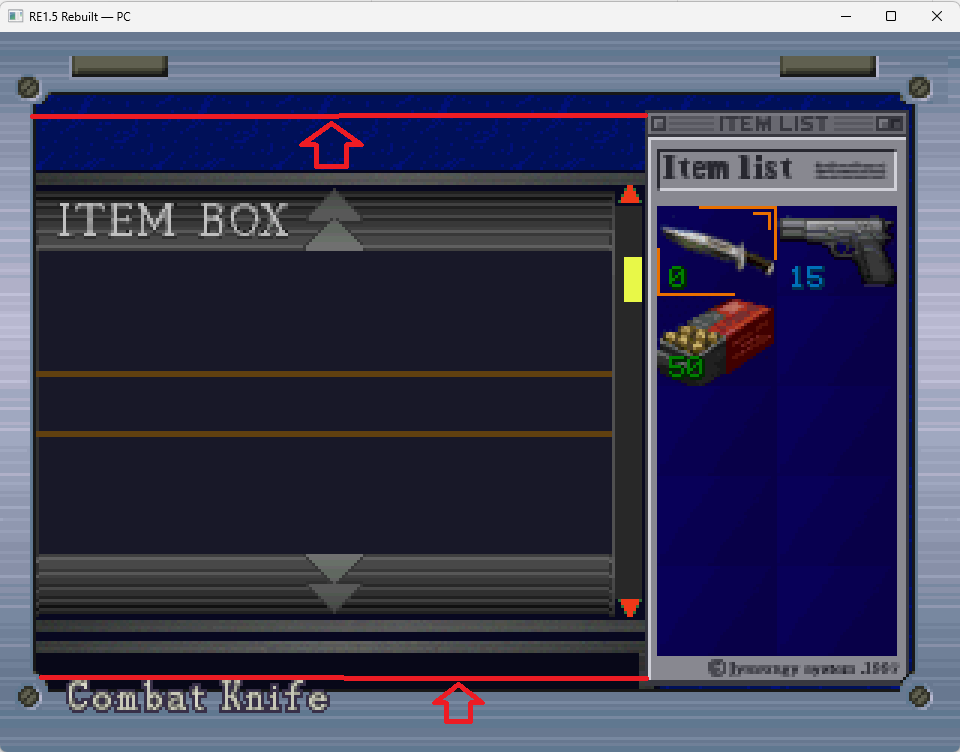
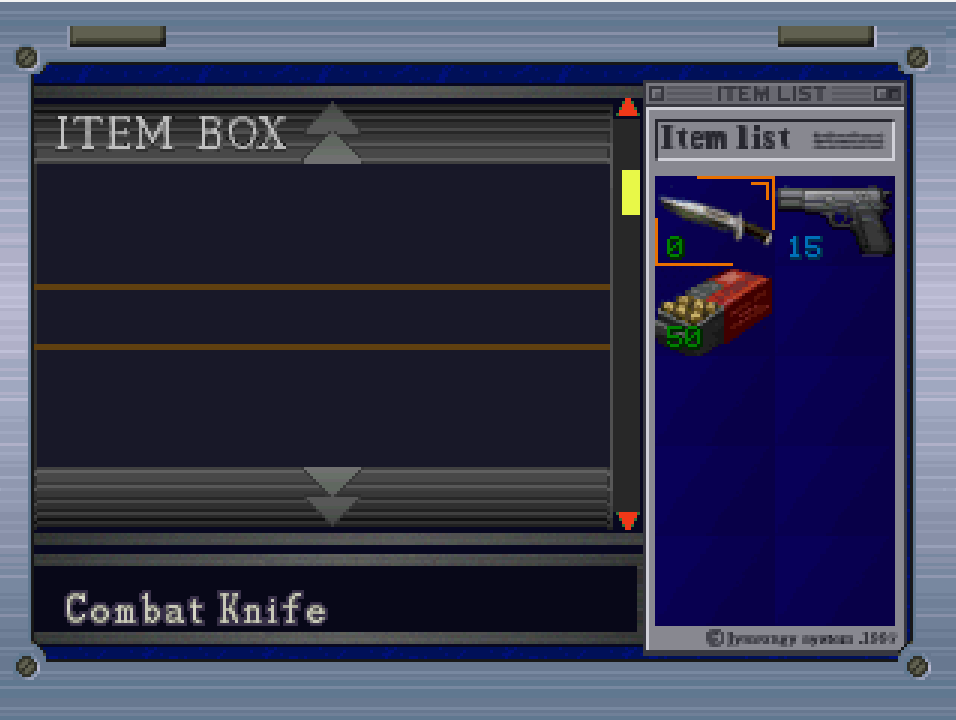
fix(itembox): Box-Seite exakt auf die RAHMENKANTEN des ITEM-LIST-Panels
Nutzer 2026-08-31: "Nur oben fehlt noch ein ganz kleines stueck, ein paar Pixel um auf
gleicher hoehe zu sein wie die item List, und unten fehlen noch ein paar Pixel mehr."

Am neuen Screenshot die RAHMENKANTEN beider Panels ausgemessen (Spalte 700 fuer
ITEM LIST, Spalte 300 fuer unsere Box; Bild 956x720 = 3-fach):
  ITEM LIST : Oberkante Bildzeile 80 -> Spiel-y 26.7 ; Unterkante 654 -> y 218
  unsere Box: Oberkante Bildzeile 83 -> Spiel-y 27.7 ; Unterkante 645 -> y 215
⇒ 1 px zu tief oben, 3 px zu kurz unten. Die roten Markierungen der Vorrunde lagen
etwas INNERHALB der Kanten, daher der Rest-Versatz.

KORRIGIERT: Panel-Oberkante 27 -> 26, Textbox 32 -> 36 px (Innenraum 18 -> 22 Zeilen,
Original-Raender unveraendert). Ergebnis nachgemessen: Panel 26..182, Textbox
182..218, Box-Seite gesamt 26..218 = die Kanten des ITEM-LIST-Panels.

Suite 256/256.

diff --git a/re15_port/engine/src/re15_inv_screen.c b/re15_port/engine/src/re15_inv_screen.c
@@ -84,11 +84,11 @@ static uint8_t mu8(uint32_t addr) { return *RE15_INV_MAP_PTR(addr); }
 #define LIST_BX  215
 /* Box-Schirm: Listen-Panel und Textbox fuellen GENAU die Hoehe des ITEM-LIST-Panels.
  * Aus dem Nutzer-Screenshot mit den roten Markierungen ausgemessen (test.png, 3-fach
- * skaliert, Titelleiste 32 px): die Markierungen liegen bei Bildzeile 113..118 und
- * 675..680, im Spielbild also bei y 27 und y 215 — 188 px Hoehe.
- * Aufteilung: Panel 27..183 (156, Originalhoehe) + Textbox 183..215 (32). RE2-Innengeometrie (Zeilen ab y 41,
+ * skaliert): an den RAHMENKANTEN gemessen reicht das ITEM-LIST-Panel von y 26 bis
+ * y 218 — 192 px. (Die roten Markierungen der ersten Runde lagen etwas innerhalb.)
+ * Aufteilung: Panel 26..182 (156, Originalhoehe) + Textbox 182..218 (36). RE2-Innengeometrie (Zeilen ab y 41,
  * Scrollschiene ab 42) wandert um denselben Versatz mit. */
-#define RE15_BOX_PANEL_Y   27
+#define RE15_BOX_PANEL_Y   26
 #define RE15_BOX_PANEL_DY  (RE15_BOX_PANEL_Y - 13)   /* Versatz gegen das Original */
 #define RE15_BOX_TEXT_Y    (RE15_BOX_PANEL_Y + 156)  /* direkt unter dem Panel */
 /* Grundlinie des Namens IN der Textbox: im Original steht die Schrift bei y 181,
@@ -1093,7 +1093,7 @@ static int build_box_mode(const re15_inv_screen_t *st, re15_inv_op_t *ops, int m
             o = &e.ops[e.n++];
             o->kind = RE15_INV_OP_PANEL; o->page = 0; o->clut = 0; o->abe = 0;
             o->v = 1;                                    /* 1 = Textbox */
-            o->x = 6; o->y = RE15_BOX_TEXT_Y; o->w = 214; o->h = 32;
+            o->x = 6; o->y = RE15_BOX_TEXT_Y; o->w = 214; o->h = 36;
             o->r = 128; o->g = 128; o->b = 128;
         }
         if (e.n < e.max) {

diff --git a/re15_port/platform/pc/src/inv_render_pc.c b/re15_port/platform/pc/src/inv_render_pc.c
@@ -871,12 +871,11 @@ int re15_inv_render_pc_draw(const re15_inv_op_t *ops, int n)
  * Datei: shared_assets/RE2/BOXPANEL.BIN — dieselbe Wurzel wie die uebrigen RE2-Assets. */
 #define RE15_BOXPANEL_W 214
 #define RE15_BOXLIST_H  156     /* Listen-Panel (Original y 13..168)   */
-#define RE15_BOXTEXT_H   32     /* Textbox: Original-Raender oben (169..175) und unten
-                                 * (221..227) plus 18 Zeilen Innenraum. Die Hoehe ergibt
-                                 * sich aus dem Platz: das ITEM-LIST-Panel reicht von
-                                 * y 27 bis 215 (aus dem Nutzer-Screenshot mit den roten
-                                 * Markierungen ausgemessen), das Listen-Panel belegt
-                                 * davon 156 — bleiben 32 fuer die Textbox. */
+#define RE15_BOXTEXT_H   36     /* Textbox: Original-Raender oben (169..175) und unten
+                                 * (221..227) plus 22 Zeilen Innenraum. Hoehe folgt aus
+                                 * dem Platz: das ITEM-LIST-Panel reicht von y 26 bis 218
+                                 * (im Nutzer-Screenshot an den Rahmenkanten gemessen),
+                                 * das Listen-Panel belegt davon 156. */
 static uint16_t s_boxlist[RE15_BOXPANEL_W * RE15_BOXLIST_H];
 static uint16_t s_boxtext[RE15_BOXPANEL_W * RE15_BOXTEXT_H];
 static int      s_boxlist_state = 0, s_boxtext_state = 0;
